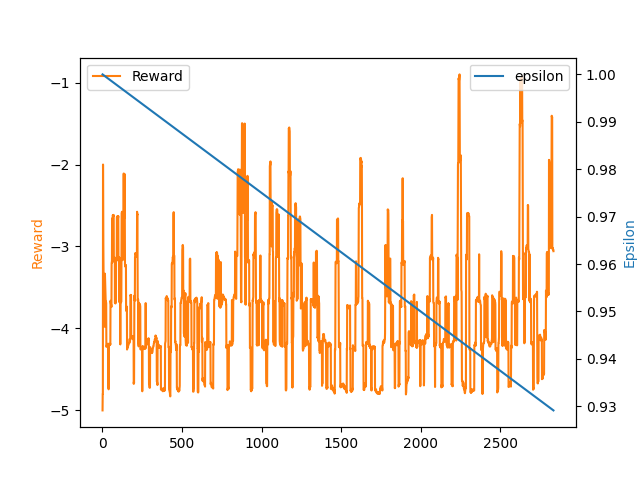
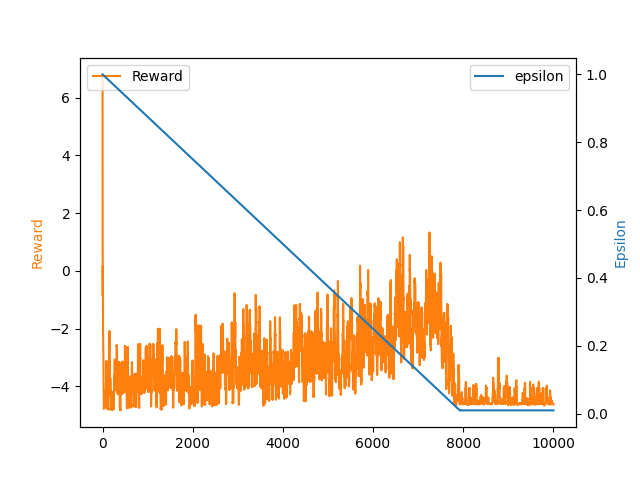
fail

diff --git a/sumo_mmrl/environment/env.py b/sumo_mmrl/environment/env.py
@@ -42,7 +42,6 @@ class Env:
         self.accumulated_reward = 0
         self.reward = 0
 
-
         self.make_choice_flag = False  # changes if agent is in a valid
         # state to make a decison:
         # not an intersection,
@@ -132,9 +131,11 @@ class Env:
         state.extend(dest_edge_loc)
         state.append(self.sumo.simulation.getTime())
         state.append(edge_distance)
+        state = self.normalize(state, 0, 1)
         state.append(new_dist_check)
         state.extend(outmask)
         self.stage = "pickup"
+
 
         return state, self.stage, choices
 
@@ -244,6 +245,7 @@ class Env:
             state.extend(dest_edge_loc)
             state.append(self.sumo.simulation.getTime())
             state.append(edge_distance)
+            state = self.normalize(state, 0, 1)
             state.append(new_dist_check)
             state.extend(outmask)
             self.old_edge = vedge
@@ -269,12 +271,12 @@ class Env:
         state.extend(dest_edge_loc)
         state.append(self.sumo.simulation.getTime())
         state.append(edge_distance)
+        state = self.normalize(state, 0, 1)
         state.append(new_dist_check)
         state.extend(outmask)
         self.old_edge = vedge
         self.old_dist = edge_distance
         self.accumulated_reward += self.reward
-
         return state, self.reward, self.stage, choices
 
     def render(self, mode):
@@ -318,3 +320,13 @@ class Env:
 
     def manhat_dist(self, x1, y1, x2, y2):
         return abs(x1 - x2) + abs(y1 - y2)
+
+
+    def normalize(self, arr, t_min, t_max):
+        norm_arr = []
+        diff = t_max - t_min
+        diff_arr = max(arr) - min(arr)
+        for i in arr:
+            temp = (((i - min(arr))*diff)/diff_arr) + t_min
+            norm_arr.append(temp)
+        return norm_arr

diff --git a/test.py b/test.py
@@ -2,7 +2,7 @@ from sumo_mmrl import Dagent
 from sumo_mmrl.environment.env import Env
 
 # import time
-EPISODES = 50_000
+EPISODES = 10_000
 STEPS = 1000
 BATCH_SIZE = 32
 MIN_MEMORY = 2000
